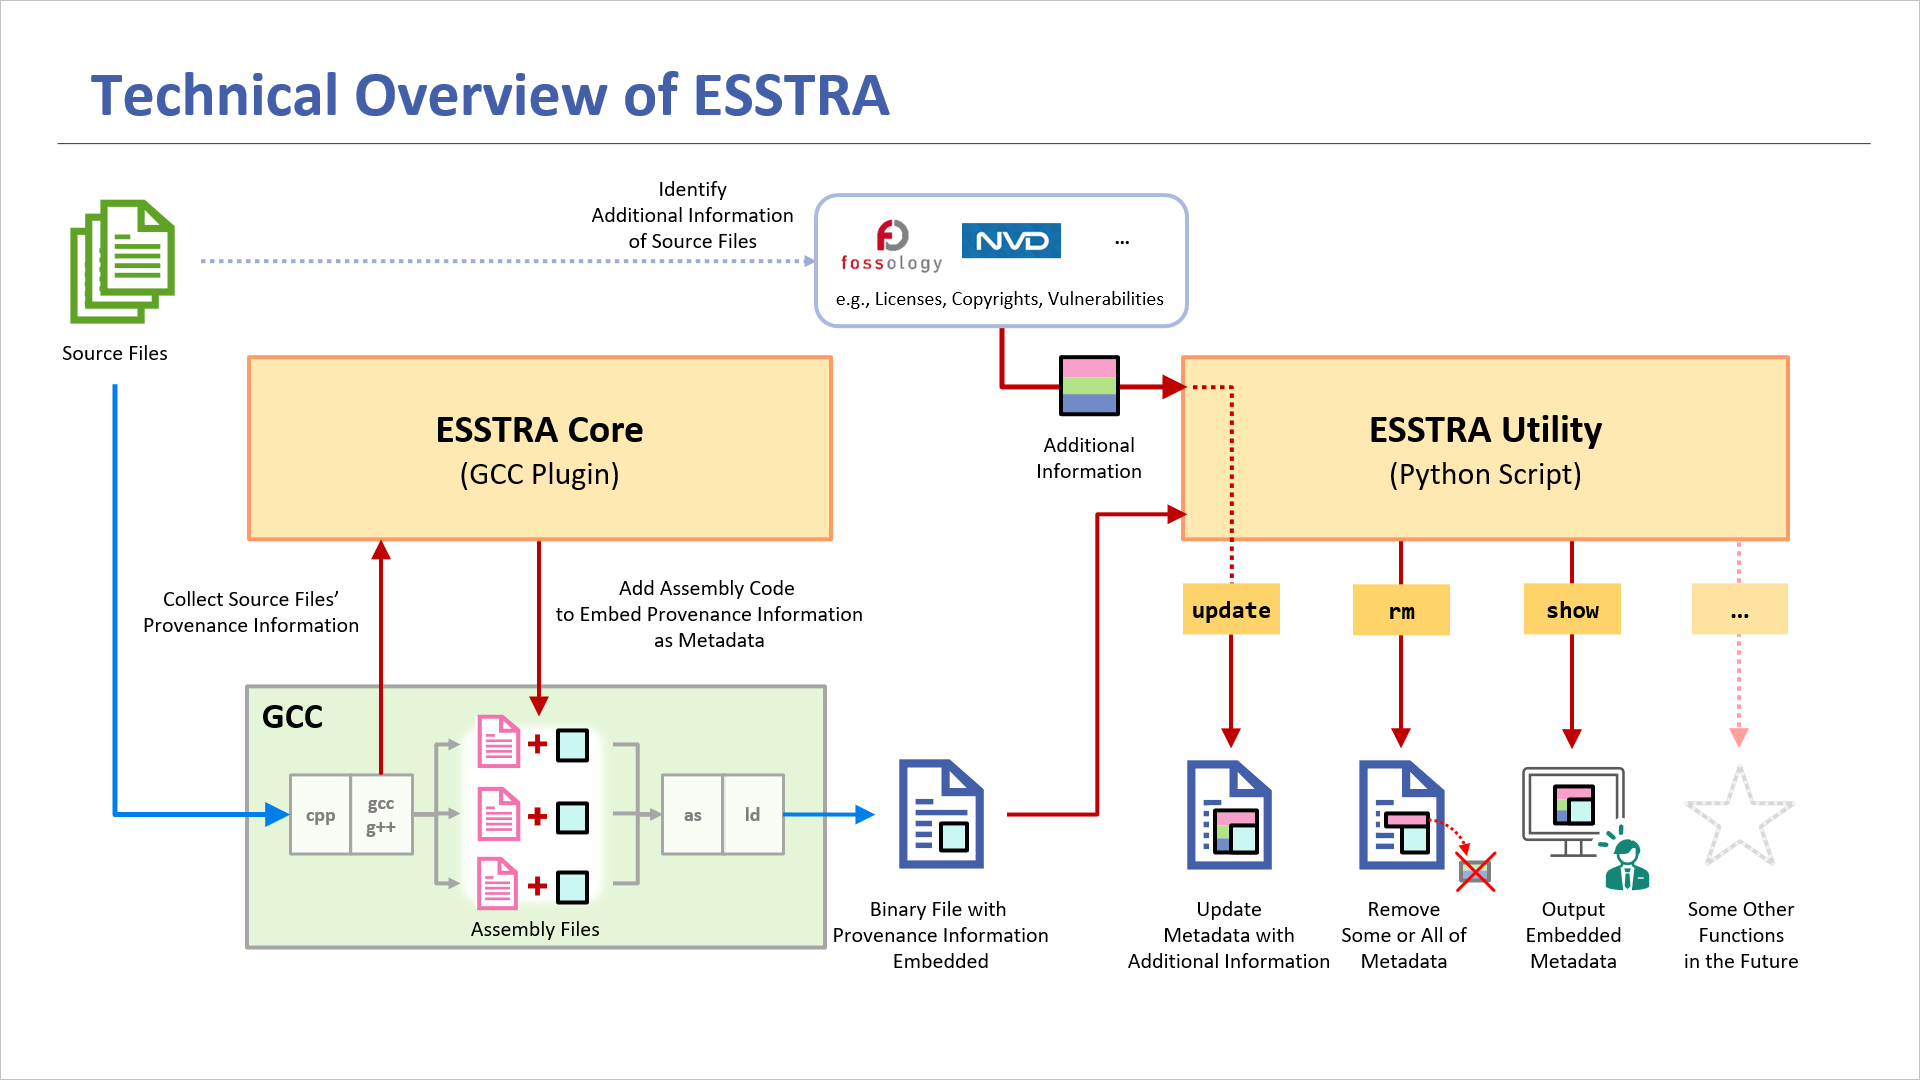
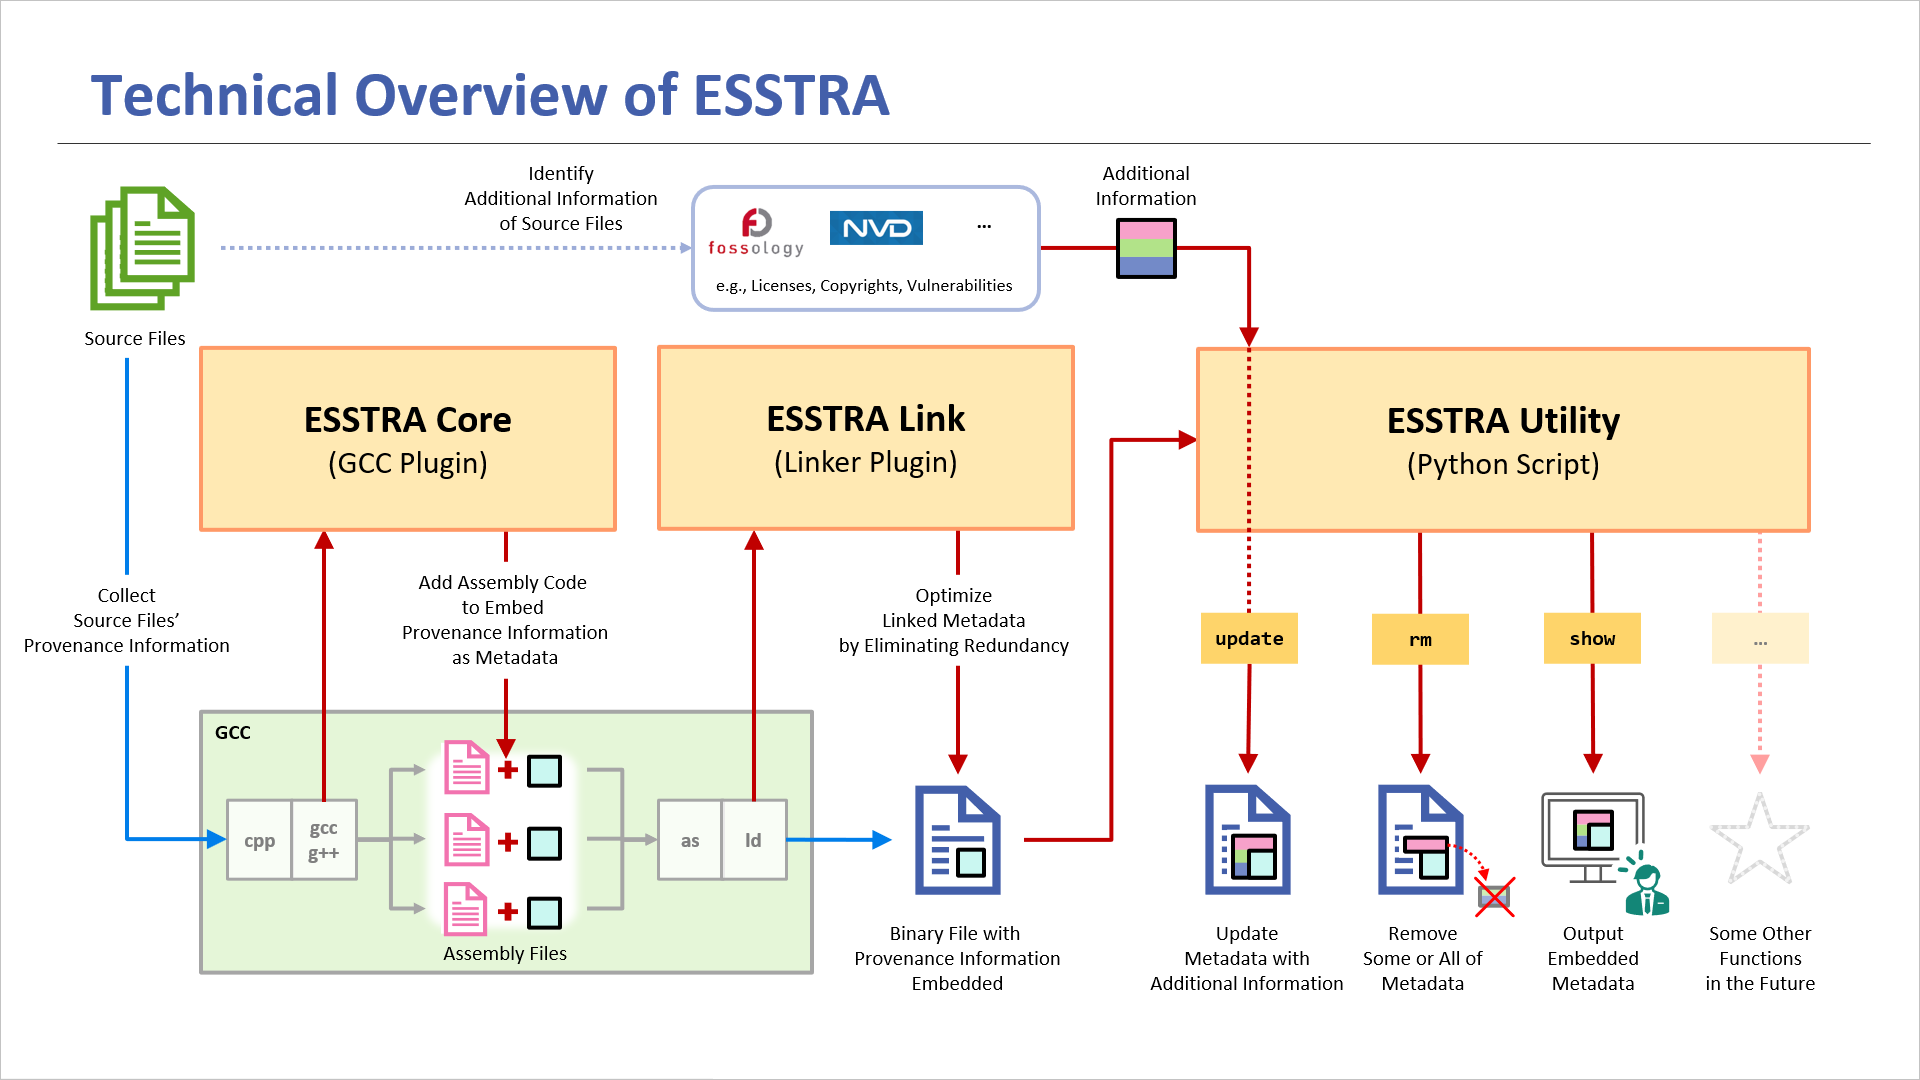
refine entire README with added ESSTRA Link description

Changed region(s): [[0.0312, 0.1528, 0.9688, 0.9167], [0.7188, 0.3667, 0.8438, 0.4583], [0.9062, 0.6722, 0.9375, 0.7028]]

diff --git a/README.md b/README.md
@@ -1,93 +1,100 @@
 # Project ESSTRA
 
-Project "ESSTRA", a software suite for
+Project **ESSTRA**, a software suite for
 **E**nhancing **S**oftware **S**upply Chain **Tra**nsparency,
-aims to improve the transparency of software supply chains as the name suggests.
+aims to improve transparency of software supply chains as the name suggests.
 
-More specifically, the goal of this project is to provide a set of tools to
-help illuminate and unveil the "dark" areas in software supply chains where
-critical information about software components is unclear, primarily from
-software traceability and compliance perspective.
+More specifically, the goal of the project is to provide a set of tools to help illuminate and
+unveil the "dark" areas in the software supply chain where critical information about software
+components is unclear, primarily from a software traceability and compliance perspective.
 
-The current version of ESSTRA takes an approach of embedding metadata in
-resulting binary files at compile time with GCC.
-The metadata contains information about the source and header files from which
-the binary file is generated.
+In the current version of **ESSTRA**, metadata is embedded into the resulting binary files at
+compile time using GCC.
+The metadata contains information about the source and header files from which the binary file
+has been generated.
 
 For detailed usage and applications, please refer to the
-[Samples](./samples/) that help you understand ESSTRA using simple
-source code, as well as the [Case Study documentation](./doc/case-study) on
-using ESSTRA for open-source software and Linux distributions.
+[Samples](./samples/)
+that help you understand **ESSTRA** using simple source code, as well as the
+[Case Study documentation](./doc/case-study)
+on using **ESSTRA** for open-source software and Linux distributions.
 
-## Status of This Version
+> [!NOTE]
+> The current version of **ESSTRA** is under active development.
+> The metadata format and content, as well as the specifications and functionality of each
+> tool, are provisional and subject to change.
 
-ESSTRA is being developed on Ubuntu 22.04 with GCC 11.4.0 and Python
-3.10.12 installed on an x86\_64 PC.
-We have also confirmed that ESSTRA can be built and run on an Aarch64 (arm64)
-Docker container virtualized with QEMU on an x86\_64 PC.
+## Development Environment
 
-This is a preliminary version. The data format and content of the metadata,
-as well as the specifications and functionality of the tools are tentative
-and subject to change.
+**ESSTRA** is developed and tested on a PC (x86_64 architecture) running Ubuntu 24.04, using
+GCC 13.3.0 and Python 3.12.3.
+Compatibility testing has also been conducted on Ubuntu 22.04 with GCC 11.4.0 and Python 3.10.12.
 
 ## ESSTRA's Components
 
-The current version of ESSTRA consists of two tools:
+The current version of **ESSTRA** consists of the three tools:
 
-* [ESSTRA Core](./core)
-* [ESSTRA Utility](./util)
+* [**ESSTRA Core**](./core/README.md)
+* [**ESSTRA Link**](./link/README.md)
+* [**ESSTRA Utility**](./util/README.md)
 
-The ESSTRA Core (`esstracore.so`) is a
-[GCC plugin](https://gcc.gnu.org/wiki/plugins) that intervenes in compilation
-process of GCC and embeds metadata into the resulting binary file.
-In this version, a list of the absolute paths of all source and header
-files involved in compilation is embedded in the binary file as metadata.
+**ESSTRA Core** (`esstracore.so`) is a [GCC plugin](https://gcc.gnu.org/wiki/plugins) that
+intervenes the compilation process to embed metadata into the resulting binary files (i.e.,
+object files).
+In the current version, metadata is embedded for all source and header files involved in the
+compilation, including their absolute paths and checksums.
 
-The ESSTRA Utility (`esstra.py`) is a Python script for accessing metadata in
-binary files embedded by the ESSTRA Core.
+**ESSTRA Link** (`esstralink.so`) is a
+[GNU linker plugin](https://sourceware.org/binutils/docs/ld/Plugins.html)
+that performs post-processing during the linking phase of GCC to optimize the metadata embedded
+in the resulting binary file.
+Specifically, it removes redundant entries from the metadata originating from multiple object
+files, ensuring the uniqueness of the information.
 
-In this version, you can output metadata in YAML format, shrink metadata by
-removing duplication, and attach license information to metadata by specifying
-files in the
-[SPDX 2.3 tag-value format](https://spdx.github.io/spdx-spec/v2.3/)
-which contain license information.
+**ESSTRA Utility** (`esstra.py`) is a Python script that provides access to the metadata embedded
+in binary files by **ESSTRA Core** and **ESSTRA Link**.
+It offers functionality such as displaying metadata contents, attaching related information,
+and removing metadata from binary files.
 
 ## Technical Overview
 
-The ESSTRA Core creates a section in the resulting ELF file to store metadata
-during compilation.
+**ESSTRA Core** creates an ELF section in the resulting object file to store metadata during
+compilation.
 
-The ESSTRA Utility allows users to access the metadata. For example, you can
-update the metadata using license information detected from the source files,
-delete some or all of the metadata, output the metadata to the console, or
-pass it to other SCA (Software Composition Analysis) tools.
+**ESSTRA Link** performs post-linking analysis to inspect and optimize the metadata merged by
+the linker.
+
+**ESSTRA Utility** allows users to access the metadata.  For example, you can update the
+metadata using license information detected from the source files, delete some or all of the
+metadata, output the metadata to the console, or pass it to other SCA (Software Composition
+Analysis) tools.
 
 ![Technical Overview](./assets/tech-overview.png)
 
 ## How to Build and Install
 
-Before building the GCC plugin, you need to install a package on your system.
-For Debian/Ubuntu, first check the version of GCC:
+Before you build the GCC plugin, you have to install a package on your system.
+For Debian/Ubuntu, check the version of GCC first:
 
 ```sh
 $ gcc --version
-gcc (Ubuntu 11.4.0-1ubuntu1~22.04) 11.4.0
+gcc (Ubuntu 13.3.0-6ubuntu2~24.04) 13.3.0
 ...
-```
-
-In this case, the major version is 11, so install the package named
-`gcc-11-plugin-dev`:
-
-```sh
-$ sudo apt install gcc-11-plugin-dev
-```
-
-Since the [ESSTRA Utility](./util) uses the [PyYAML](https://pyyaml.org/)
-module to handle YAML data, you may need to install it by typing:
-
-```sh
-$ pip install pyyaml
 or
+$ gcc -dumpversion
+13
+```
+
+In this case, the major version is 13, so install the package named `gcc-13-plugin-dev`:
+
+```sh
+$ sudo apt install gcc-13-plugin-dev
+```
+
+Since **ESSTRA Utility** uses the [PyYAML](https://pyyaml.org/) module to handle YAML
+data, you may need to install it:
+
+```sh
 $ sudo apt install python3-yaml
 ```
 
@@ -97,47 +104,88 @@ After that, run `make` in the top directory:
 $ make
 ```
 
-If there are no errors, the build is complete.
+If no errors, the build is complete.
 
-To install the ESSTRA Core and the ESSTRA Utility on your system, run the
-following command:
+To install **ESSTRA Core**, **ESSTRA Link** and **ESSTRA Utility** on your system, run the following command:
 
 ```sh
 $ sudo make install
 ```
 
-Then the files `esstracore.so` and `esstra.py` will be installed in the directory
-`/usr/local/lib/gcc/<gcc-arch>/<gcc-major-version>/plugin/` and `/usr/local/bin/`,
-respectively.
+Then, `esstracore.so` and `esstralink.so` are installed to
+`/usr/local/lib/gcc/<gcc-arch>/<gcc-major-version>/plugin/`,
+and `esstra.py` is installed to `/usr/local/bin/` by default.
+Please make sure that `/usr/local/bin` is included in your system's PATH.
+
+
+Here, `<gcc-arch>` refers to a string like `x86_64-linux-gnu`, which can be obtained using the
+`gcc -dumpmachine` command, and `<gcc-major-version>` refers to a number like `13`, obtained
+via `gcc -dumpversion`.
+
+In the case of our development environment mentioned above, the installation path of
+`esstracore.so` and `esstralink.so` is `/usr/local/lib/gcc/x86_64-linux-gnu/13/plugin/`.
 
 ## How to Use
 
-The workflow using ESSTRA is as follows:
+The workflow using **ESSTRA** consists of the following steps:
 
-1. Compile source files with GCC using the ESSTRA Core
-2. Use the ESSTRA Utility to access metadata embedded in the binary files
+1. Compile source files with GCC using **ESSTRA Core** to generate object files.
+2. Link the object files using **ESSTRA Link** to produce the binary file.
+3. Access the metadata embedded in the binary file using **ESSTRA Utility**.
 
-The example below compiles a source file
-`hello.c` with `gcc` and generates a binary file `hello`.
-(See also [Sample "hello"](./samples/hello/))
+The example below compiles the source file `main.c` and `sub.c` with `gcc` and generates the
+binary file `hello`.
 
-First, compile the source file `hello.c` by passing the path of
-`esstracore.so` to the compiler with the `-fplugin` option.
-Since we are using GCC version 11 on an x86\_64 PC, the command line would be as follows:
+### Compiling
+
+First, compile the source file `main.c` and `sub.c` by passing the path of `esstracore.so` to
+the compiler with the option `-fplugin=`:
 
 ```sh
-$ gcc -fplugin=/usr/local/lib/gcc/x86_64-linux-gnu/11/plugin/esstracore.so hello.c -o hello
+$ gcc -fplugin=/usr/local/.../esstracore.so -c main.c -o main.o
+$ gcc -fplugin=/usr/local/.../esstracore.so -c sub.c -o sub.o
 ```
 
-The intervention of `esstracore.so` embeds metadata in the resulting
-binary file `hello`. Note that this does not affect the behavior of the
-binary file itself.
+Then the intervention of `esstracore.so` embeds metadata in the resulting object files
+`main.o` and `sub.o`.
 
-To access the embedded metadata, use the script `esstra.py`. The first argument
-of this script is a *command*, and the second or subsequent arguments are the
+For more details on **ESSTRA Core**, please refer to [core/README.md](/core/README.md).
+
+### Linking
+
+Since `gcc` allows linker options to be specified using the `-Wl,<option>` flag, the following
+command links the object files and produces the binary file `hello`, while passing the path to
+`esstralink.so` to the linker via the `-plugin=` option:
+
+```sh
+$ gcc -Wl,-plugin=/usr/local/.../esstralink.so main.o sub.o -o hello
+```
+
+As a result, the generated `hello` binary file contains optimized metadata inherited from the
+object files `main.o` and `sub.o`.
+
+Note that **ESSTRA**'s intervention in the compilation and linking process does not affect the
+behavior of the resulting binary files.
+
+For more details on **ESSTRA Link**, please refer to [link/README.md](/link/README.md).
+
+### More Simple Way
+
+The entire process can also be performed in a single command:
+
+```sh
+$ gcc -fplugin=/usr/local/.../esstracore.so \
+      -Wl,-plugin=/usr/local/.../esstralink.so \
+      main.c sub.c -o hello
+```
+
+### Accessing the Metadata
+
+To access the embedded metadata, use the script `esstra.py`.  The
+first argument of this script is a *command*, and the second or subsequent arguments are the
 arguments of the *command*.
 
-The command `show` displays metadata in binary files in YAML format.
+The command `show` outputs metadata in binary files in YAML format to the standard output.
 A command line:
 
 ```sh
@@ -149,19 +197,24 @@ would generate an output as follows:
 ```yaml
 #
 # BinaryFileName: hello
-# BinaryPath: /home/snagao/esstra/samples/hello/hello
+# BinaryPath: /home/snagao/work/esstra-test/hello
 #
 Headers:
   ToolName: ESSTRA Core
   ToolVersion: 0.1.1-develop
   DataFormatVersion: 0.1.0
   InputFileNames:
-  - hello.c
+  - main.c
+  - sub.c
 SourceFiles:
-- Directory: /home/snagao/esstra/samples/hello
+- Directory: /home/snagao/work/esstra-test
   Files:
-  - File: hello.c
-    SHA1: 4bbee85215cbcb6a4f1625e4851cca19b0d3f6e2
+  - File: main.c
+    SHA1: f7f5c447d68fd9685594a31cb10c8d8b1dd5ebd6
+  - File: sub.c
+    SHA1: cfb72998ae0242237fa42c8bcf61ee5887137392
+  - File: sub.h
+    SHA1: 3e5b3ed1aed966c0e0c183eac8fe6ea02dfa62a0
 - Directory: /usr/include
   Files:
   - File: features-time64.h
@@ -174,6 +227,26 @@ SourceFiles:
     SHA1: c7181b48c4194cd122024971527aab4056baf600
 - Directory: /usr/include/x86_64-linux-gnu/bits
   Files:
+  - File: floatn-common.h
+    SHA1: 3f37104123a2e6180621331c1da87125808e47bd
+  - File: floatn.h
+    SHA1: 806b759ab6894a09a3b3a422eec5f2414ba7dab7
+  - File: libc-header-start.h
+    SHA1: e0a400c194cd3962a342a6504a441920163b799c
+  - File: long-double.h
+    SHA1: 4e3f5928e816ad29079d1c7d75f3a510a0939ffb
+  - File: stdio.h
+    SHA1: 521d7cd0f6572f70122386784120cc55d84899bc
+  - File: stdio2.h
+    SHA1: 6c3ee923db9679a79941a688de72e114a794fc54
+  - File: stdio_lim.h
+    SHA1: 6210c8ae410ee0f39a6096b0adb9fa86febd3517
+  - File: time64.h
+    SHA1: ab2017da21608498b58eea37b2aa6a3387ee978c
+  - File: timesize.h
+    SHA1: f1dd8d62a4d75288654626933edfc82ccf2394a7
+  - File: types.h
+    SHA1: e5893a9c4c523615c73a51feb9680279608027c6
   - File: typesizes.h
     SHA1: ee94b5a60d007c23bdda9e5c46c8ba40f4eb402c
   - File: wordsize.h
@@ -210,39 +283,47 @@ SourceFiles:
     SHA1: 0de70008ffa3f198baf55c7b3f3d03b4ca11c21f
 ```
 
-For more details, refer to the file [util/README.md](/util/README.md).
+For more details on **ESSTRA Utility** and the structure of the metadata, please refer to
+[util/README.md](/util/README.md).
 
-### Installing Spec File
+## Installing the GCC Spec File
 
-It can be quite annoying to specify `-fplugin=....` for every `gcc`/`g++`
-invocation.
-To avoid this tedious task, simply type:
+Specifying `-fplugin=...` and `-Wl,-plugin=...` every time you run `gcc` or `g++` can be
+tedious. To simplify this process, run the following command:
 
 ```sh
 $ sudo make install-specs
 ```
 
-This command installs a
-[GCC spec file](https://gcc.gnu.org/onlinedocs/gcc/Spec-Files.html)
-on your system which enables the option:
+This installs the [GCC spec file](https://gcc.gnu.org/onlinedocs/gcc/Spec-Files.html)
+that configures your system to automatically apply the following options:
 
-* `-fplugin=/usr/local/lib/gcc/<gcc-arch>/<gcc-major-version>/plugin/esstracore.so`
+* `-fplugin=/usr/local/.../esstracore.so` (for `gcc/g++`)
+* `-plugin=/usr/local/.../esstralink.so` (for `ld`)
 
-by default.
-
-After that, compiling anything with GCC as usual:
+After installation, you can compile your code as usual:
 
 ```sh
-$ gcc hello.c -o hello
+$ gcc main.c sub.c -o hello
 ```
 
-will generate a binary file with metadata embedded by the ESSTRA Core.
+**ESSTRA Core** and **ESSTRA Link** will be automatically used during compilation and linking,
+embedding and optimizing metadata in the resulting binary `hello`.
 
-This is a very useful feature when you compile open-source or closed-source
-projects and want the information the ESSTRA Core generates for them.
+This is a very handy feature when you want to get the information **ESSTRA** generates while
+compiling any kind of project -- whether it's open-source or closed-source.
 
-For more details about installing/uninstalling the spec file,
-refer to the file [core/README.md](./core/README.md).
+> [!WARNING]
+> Once the spec file is installed,
+> **all compilation and linking processes across the entire system**
+> will involve **ESSTRA Core** and **ESSTRA Link**.
+> Please install the spec file with caution to avoid unintended interference.
+
+To uninstall the spec file, run:
+
+```sh
+$ sudo make uninstall-specs
+```
 
 ## License
 
